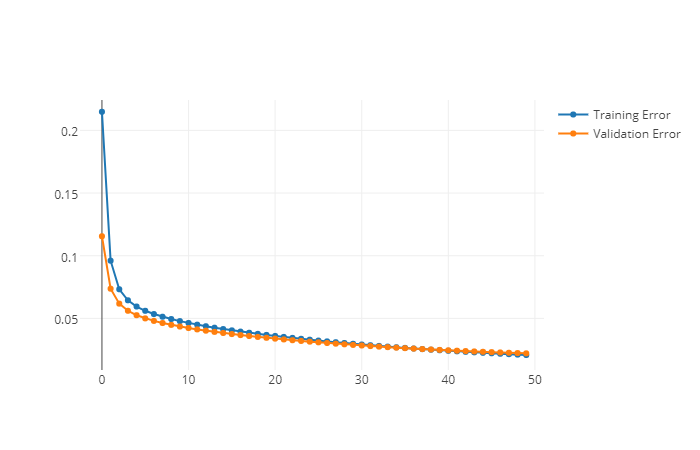
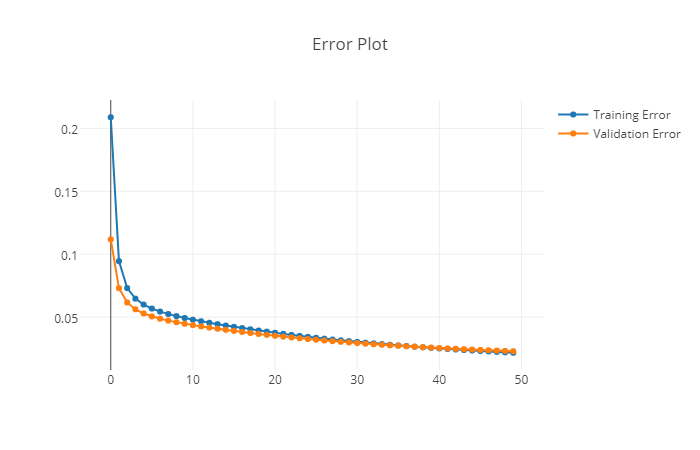
Added Validation Test to Network Working on README Example

diff --git a/mnist_net.py b/mnist_net.py
@@ -33,10 +33,10 @@ training_errors,training_accuracy = mnist_net.errors['training'],mnist_net.accur
 validation_errors,validation_accuracy = mnist_net.errors['validation'],mnist_net.accuracy['validation']
 
 labels = ['Training Error','Validation Error']
-plotter(range(len(training_errors)),[training_errors,validation_errors],labels = labels,title = 'Error Plot')
+plotter(range(len(training_errors)),[training_errors,validation_errors],labels = labels,title = 'Error Plot',filename = 'Error Plot.html')
 
 labels = ['Training Accuracy','Validation Accuracy']
-plotter(range(len(training_accuracy)),[training_accuracy,validation_accuracy],labels = labels,title = 'Accuracy Plot')
+plotter(range(len(training_accuracy)),[training_accuracy,validation_accuracy],labels = labels,title = 'Accuracy Plot',filename = 'Accuracy Plot.html')
 
 loss,accuracy = mnist_net.batch_test(X_test,y_test)
 print accuracy
